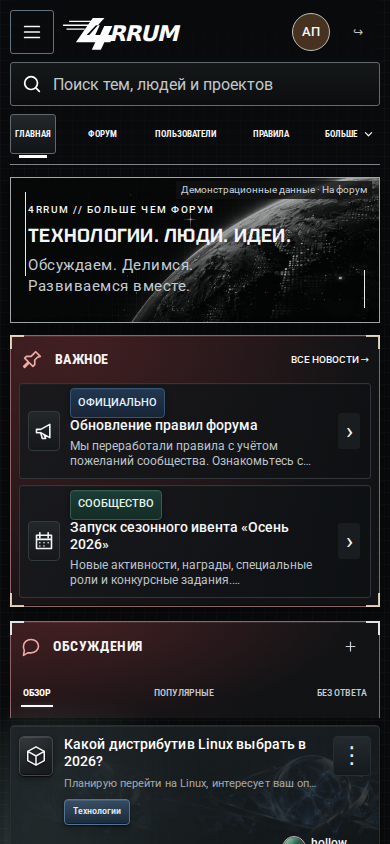
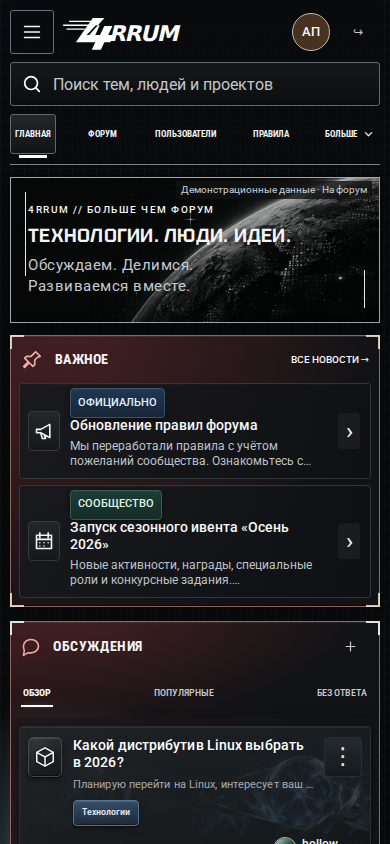
Unify discussion header and first topic in one frame

diff --git a/apps/web/components/reference-home.tsx b/apps/web/components/reference-home.tsx
@@ -267,7 +267,7 @@ export function HomeDashboard({ initialData, demo = false }: { initialData: Home
  const visible = tab === 'new' && !community ? diverseTopics(matchingTopics, item => topicBackdrop(item.community.slug, item.community.name)) : matchingTopics;
  const news = initialData.announcements?.slice(0, 4) ?? [];
  const important = [...news.slice(0,2), ...topics.filter(item => item.isOfficial && item.pinnedUntil && Date.parse(item.pinnedUntil)>Date.now() && !news.some(row => row.id === item.id))].slice(0,2);
- return <div id="top" className={`forum-home ${viewer === 'guest' ? 'is-guest' : ''}`} data-home-reference="v49" data-home-revision="v85" onClickCapture={demo ? event=>{const link=(event.target as HTMLElement).closest('a');if(link && link.getAttribute('href')!=='/')event.preventDefault();} : undefined}>
+ return <div id="top" className={`forum-home ${viewer === 'guest' ? 'is-guest' : ''}`} data-home-reference="v49" data-home-revision="v86" onClickCapture={demo ? event=>{const link=(event.target as HTMLElement).closest('a');if(link && link.getAttribute('href')!=='/')event.preventDefault();} : undefined}>
   {!demo && <HomeWebVitals/>}
   <aside ref={sidebarRef} className={`forum-sidebar ${sidebar ? 'is-open' : ''}`} aria-label="Навигация форума">
    <button type="button" className="forum-sidebar-close" onClick={()=>setSidebar(false)} aria-label="Закрыть меню"><Icon name="close"/></button>
@@ -355,7 +355,7 @@ export function HomeDashboard({ initialData, demo = false }: { initialData: Home
    </div>}
    {community && <div className="forum-active-filter">{communityLabel(communities.find(item=>item.slug===community)?.name || community)}<button type="button" onClick={()=>choose(tab,'')} aria-label="Сбросить выбранное сообщество">×</button></div>}
    {pendingTopics && !loading && <button type="button" className="forum-feed-update" onClick={() => {setTopics(pendingTopics.slice(0,20));setHasMore(pendingTopics.length>20);setOffset(20);setPendingTopics(null);}}>Есть обновления в ленте · Показать</button>}
-   <section className="forum-feed" aria-label="Темы форума" aria-busy={loading} aria-live="polite">{loading ? <div className="forum-empty" role="status">Загружаем темы…</div> : error ? <div className="forum-empty" role="alert"><p>{error}</p><button type="button" className="forum-button" onClick={() => setRetry(value => value + 1)}>Попробовать снова</button></div> : visible.length ? visible.map(item => <Topic key={`${tab}-${item.id}`} item={item} history={history} communities={communities} demo={demo} guest={viewer === 'guest'}/>) : <div className="forum-empty"><strong>{tab==='popular'?'За сутки новых ответов пока нет':tab==='unanswered'?'Вопросов без ответа пока нет':'Здесь пока нет тем'}</strong><p>Выберите другую подборку или начните своё обсуждение.</p><Link className="forum-button" href="/create">Создать тему</Link></div>}</section>
+   <section className="forum-feed" aria-label="Темы форума" aria-busy={loading} aria-live="polite">{loading ? <div className="forum-empty" role="status">Загружаем темы…</div> : error ? <div className="forum-empty" role="alert"><p>{error}</p><button type="button" className="forum-button" onClick={() => setRetry(value => value + 1)}>Попробовать снова</button></div> : visible.length ? visible.map((item, index) => index === 0 ? <div className="forum-feed-lead" key={`${tab}-${item.id}`}><Topic item={item} history={history} communities={communities} demo={demo} guest={viewer === 'guest'}/></div> : <Topic key={`${tab}-${item.id}`} item={item} history={history} communities={communities} demo={demo} guest={viewer === 'guest'}/>) : <div className="forum-empty"><strong>{tab==='popular'?'За сутки новых ответов пока нет':tab==='unanswered'?'Вопросов без ответа пока нет':'Здесь пока нет тем'}</strong><p>Выберите другую подборку или начните своё обсуждение.</p><Link className="forum-button" href="/create">Создать тему</Link></div>}</section>
    {!loading && !error && hasMore && !demo && <div className="forum-load-more"><button className="forum-button" type="button" disabled={loadingMore} onClick={()=>void loadMore()}>{loadingMore?'Загружаем…':'Показать ещё обсуждения'}</button></div>}
    {!loading && !error && !hasMore && visible.length > 0 && <footer className="forum-feed-end"><span>Вы просмотрели все обсуждения в этой подборке</span><a href="#top">Наверх ↑</a></footer>}
    <section className="forum-alpha-help" aria-label="Участие в альфе"><span><strong>Закрытая альфа</strong> · Проверяем форум вместе. Нашли неудобство или ошибку?</span><Link href="/support#alpha">Сообщить о проблеме →</Link></section>

diff --git a/apps/web/app/home-alpha.css b/apps/web/app/home-alpha.css
@@ -478,3 +478,15 @@ body:has(.forum-home) {background-color:#080a0b!important;background-image:linea
 @media(forced-colors:active) {.forum-home .forum-feed-toolbar {background:Canvas;border-color:CanvasText;}}
 
 @media(min-width:761px) and (max-width:1050px) {.forum-home .forum-feed::before {inset:-8px -10px -18px;}}
+
+/* The discussion header, column labels and first row share one continuous frame. */
+.forum-home .forum-topic-columns {border-color:#8d6569;border-top-color:#ffffff12;border-bottom:0;background:linear-gradient(120deg,#211719f5,#111315f2 75%);padding-right:20px;padding-left:31px;}
+.forum-home .forum-feed {padding-top:0;}
+.forum-home .forum-feed-lead {position:relative;padding:8px;border:1px solid #8d6569;border-top:0;background:linear-gradient(120deg,#211719f5,#111315f2 75%);box-shadow:inset 0 -1px #0008,0 4px 12px #0004;}
+.forum-home .forum-feed-lead::before {content:'';position:absolute;inset:0 -1px -1px;pointer-events:none;background:linear-gradient(#e0e4e6,#e0e4e6) left bottom/14px 2px no-repeat,linear-gradient(#e0e4e6,#e0e4e6) left bottom/2px 14px no-repeat,linear-gradient(#e0e4e6,#e0e4e6) right bottom/14px 2px no-repeat,linear-gradient(#e0e4e6,#e0e4e6) right bottom/2px 14px no-repeat;}
+.forum-home .forum-feed-lead:focus-within,.forum-home .forum-feed-lead:has(.forum-actions-popover),.forum-home .forum-feed-lead:has(.forum-action-notice) {z-index:30;}
+@media(min-width:761px) and (max-width:1450px) {.forum-home .forum-topic-columns {padding-left:26px;padding-right:16px;}}
+@media(max-width:760px) {.forum-home .forum-feed {padding-top:0;}}
+@media(forced-colors:active) {.forum-home :is(.forum-feed-lead,.forum-topic-columns) {background:Canvas;border-color:CanvasText;}}
+
+.forum-home .forum-feed>.forum-empty {margin:0;border:1px solid #8d6569;border-top:0;background:linear-gradient(120deg,#211719f5,#111315f2 75%);}
